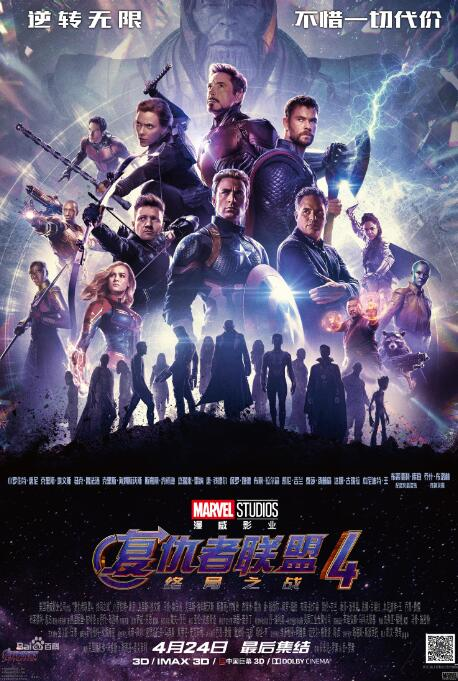
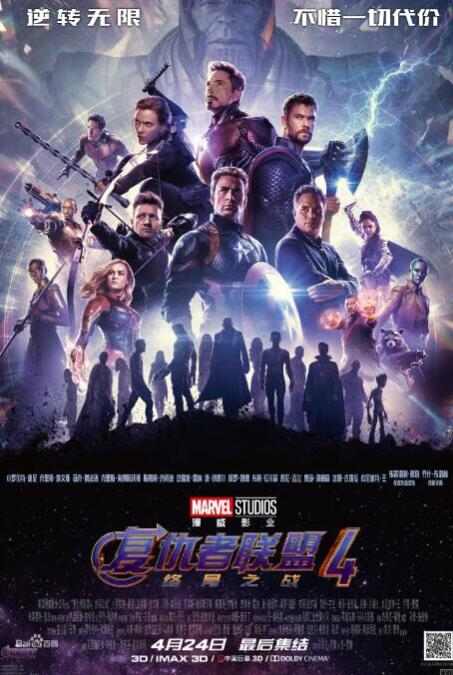
照片压缩

diff --git a/day03-2/index.html b/day03-2/index.html
@@ -46,7 +46,7 @@
               <span>哪吒之魔童降世</span>
             </div>
             <div class="content-movie-det">
-              <img src="./sea.png" alt="" />
+              <img src="./sea.jpg" alt="" />
               <span>海王</span>
             </div>
             <div class="content-movie-det">
@@ -71,7 +71,7 @@
               <span>小王子</span>
             </div>
             <div class="content-book-det">
-              <img src="./golden.png" alt="" />
+              <img src="./golden.jpg" alt="" />
               <span>黄金时代</span>
             </div>
           </div>
